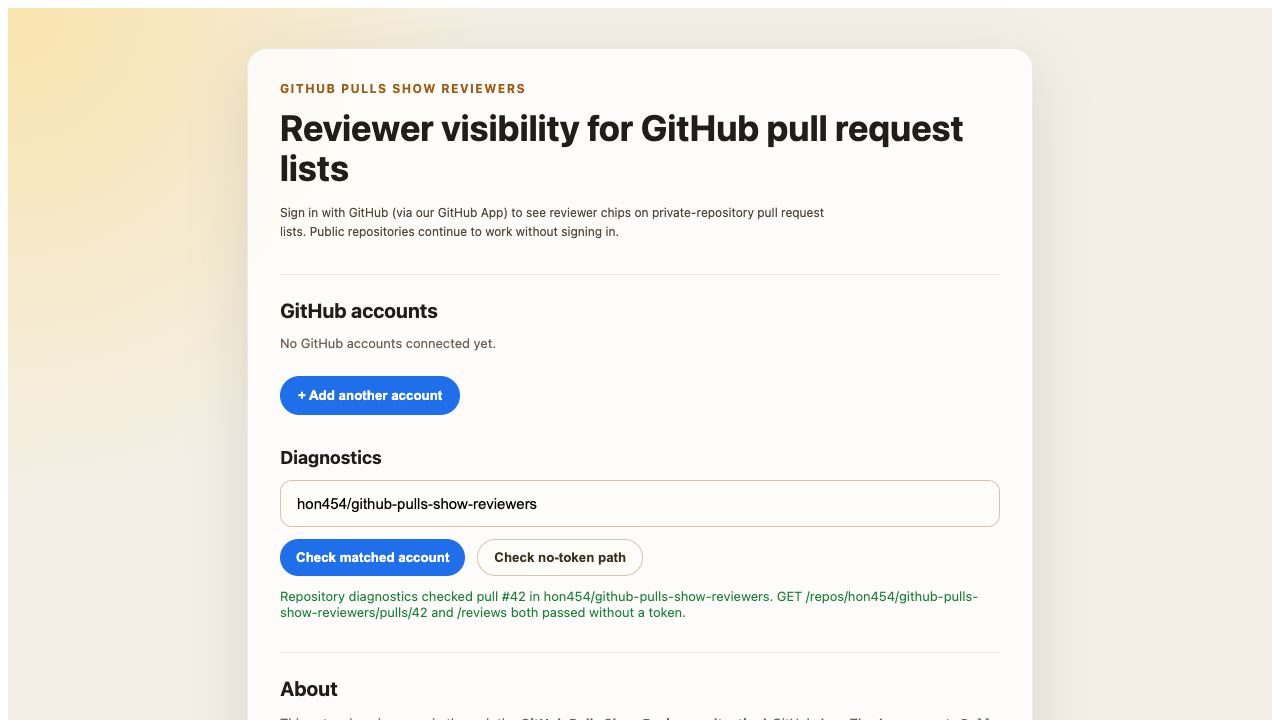
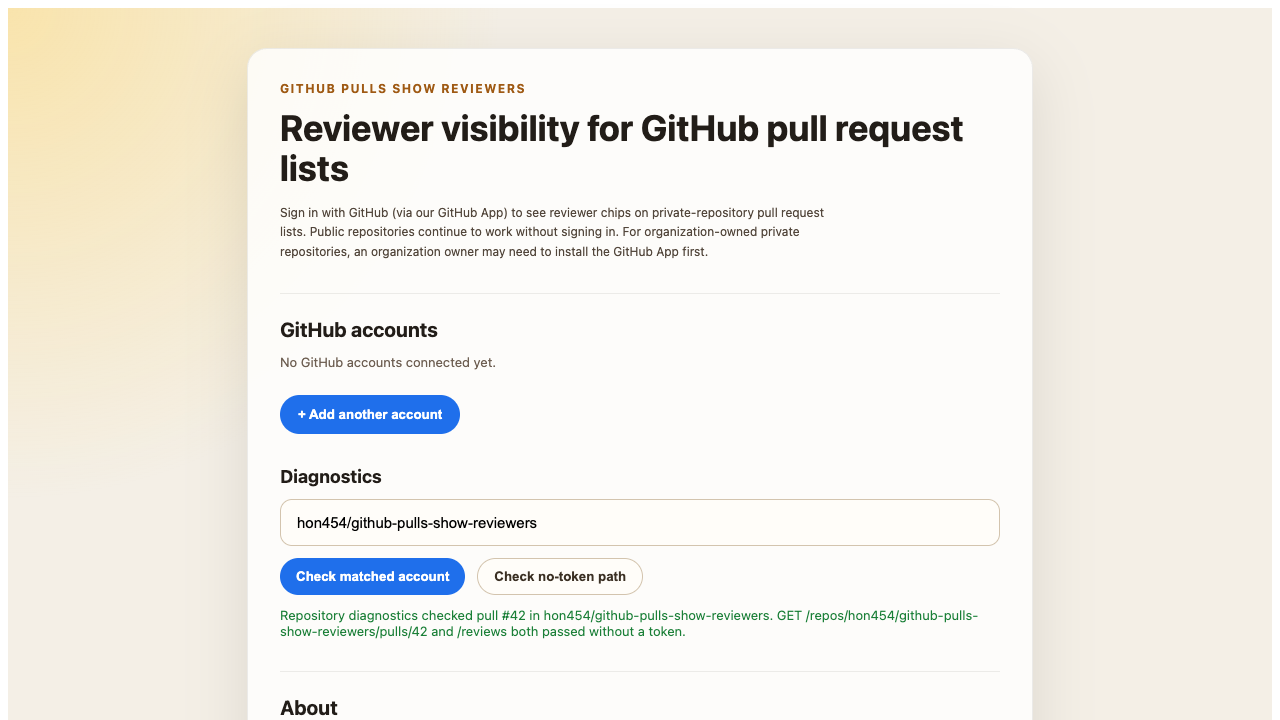
chore(release): prepare v1.2.1

Changed region(s): [[0.2188, 0.3972, 0.7812, 0.8861], [0.2188, 0.3056, 0.625, 0.3667], [0.2188, 0.9472, 0.2812, 1.0]]

diff --git a/docs/releases/v1.2.1.md b/docs/releases/v1.2.1.md
@@ -1,0 +1,38 @@
+## v1.2.1
+
+Patch release for **GitHub Pulls Show Reviewers** focused on tighter inline row
+presentation, clearer private-organization setup copy, and safer Playwright
+execution guidance for maintainers.
+
+### Highlights
+
+- PR list rows now hide empty inline reviewer sections instead of rendering
+  `No requested reviewers` and `No completed reviews`, which keeps the metadata
+  on one line more often while preserving the `Requested:` and `Reviewed:`
+  labels when data exists.
+- The options page and README now call out that organization-owned private
+  repositories may require an organization owner to install the GitHub App
+  first.
+
+### Developer Experience
+
+- End-to-end test commands are split into `pnpm test:e2e:build`,
+  `pnpm test:e2e:run`, and `pnpm test:e2e:grep "<pattern>"` so filtered
+  Playwright runs no longer need ad hoc command rewriting.
+- The Chrome Web Store notes and README now document the supported filtered
+  Playwright workflow explicitly.
+
+### Quality & Packaging
+
+- Added regression coverage for rows with no requested reviewers and no
+  completed reviews.
+- Refreshed the options-page Chrome Web Store screenshot so store assets match
+  the current private-organization installation guidance.
+
+### Scope Notes
+
+- No change to review-state mapping, chip colors, or reviewer link behavior.
+- No Marketplace packaging changes; Chrome Web Store packaging remains the
+  distribution target.
+
+**Full Changelog**: https://github.com/hon454/github-pulls-show-reviewers/compare/v1.2.0...v1.2.1

diff --git a/README.md b/README.md
@@ -104,6 +104,14 @@ pnpm test
 pnpm test:e2e
 ```
 
+For filtered Playwright runs, build once and use the dedicated grep script instead of
+passing flags to `pnpm test:e2e`:
+
+```bash
+pnpm test:e2e:build
+pnpm test:e2e:grep "renders reviewer chips"
+```
+
 ## Pre-release Test Workflow
 
 Use the same order locally before packaging or store submission:
@@ -116,7 +124,7 @@ pnpm verify:release
 2. Run `pnpm lint` to catch unsafe edits, stale imports, and repository-level style regressions.
 3. Run `pnpm typecheck` to verify the extension entrypoints and shared reviewer contracts still line up.
 4. Run `pnpm test` to cover selector parsing, reviewer view models, API handling, token diagnostics, and options-page behavior.
-5. Run `pnpm test:e2e` to build the MV3 bundle and verify the packaged extension still renders reviewer chips in Playwright fixture scenarios.
+5. Run `pnpm test:e2e` to build the MV3 bundle and verify the packaged extension still renders reviewer chips in Playwright fixture scenarios. For filtered Playwright runs, use `pnpm test:e2e:build` and then `pnpm test:e2e:grep "<pattern>"`.
 6. Run `pnpm cws:assets` only when screenshots or store-facing visuals need to be regenerated.
 7. Run `pnpm zip` only after the checks above are green and you are ready to inspect or submit the packaged artifact.
 

diff --git a/docs/chrome-web-store.md b/docs/chrome-web-store.md
@@ -44,7 +44,7 @@ pnpm verify:release
 2. Run `pnpm lint` to catch repository-wide lint regressions before packaging.
 3. Run `pnpm typecheck` to verify the WXT entrypoints and shared TypeScript contracts still match.
 4. Run `pnpm test` to exercise unit and fixture-backed regression coverage for routes, selectors, reviewer mapping, settings, and repository diagnostics.
-5. Run `pnpm test:e2e` to build the extension and verify the packaged MV3 output still boots and renders reviewer chips in Playwright scenarios.
+5. Run `pnpm test:e2e` to build the extension and verify the packaged MV3 output still boots and renders reviewer chips in Playwright scenarios. For filtered Playwright runs, use `pnpm test:e2e:build` and then `pnpm test:e2e:grep "<pattern>"`.
 6. Run `pnpm cws:assets` only if store screenshots or other listing visuals need to be refreshed.
 7. Run `pnpm zip` after the checks above are green and the package is ready for inspection or submission.
 8. Manually load `.output/chrome-mv3` in Chrome and confirm the options page never renders as a blank white screen; if the GitHub App build config is missing, it must show an explicit configuration warning instead.

diff --git a/docs/chrome-web-store-submission.md b/docs/chrome-web-store-submission.md
@@ -97,5 +97,5 @@ Host [privacy-policy.md](./privacy-policy.md) at a stable public URL before subm
 Expected package path after `pnpm zip`:
 
 ```text
-.output/github-pulls-show-reviewers-1.2.0-chrome.zip
+.output/github-pulls-show-reviewers-1.2.1-chrome.zip
 ```
